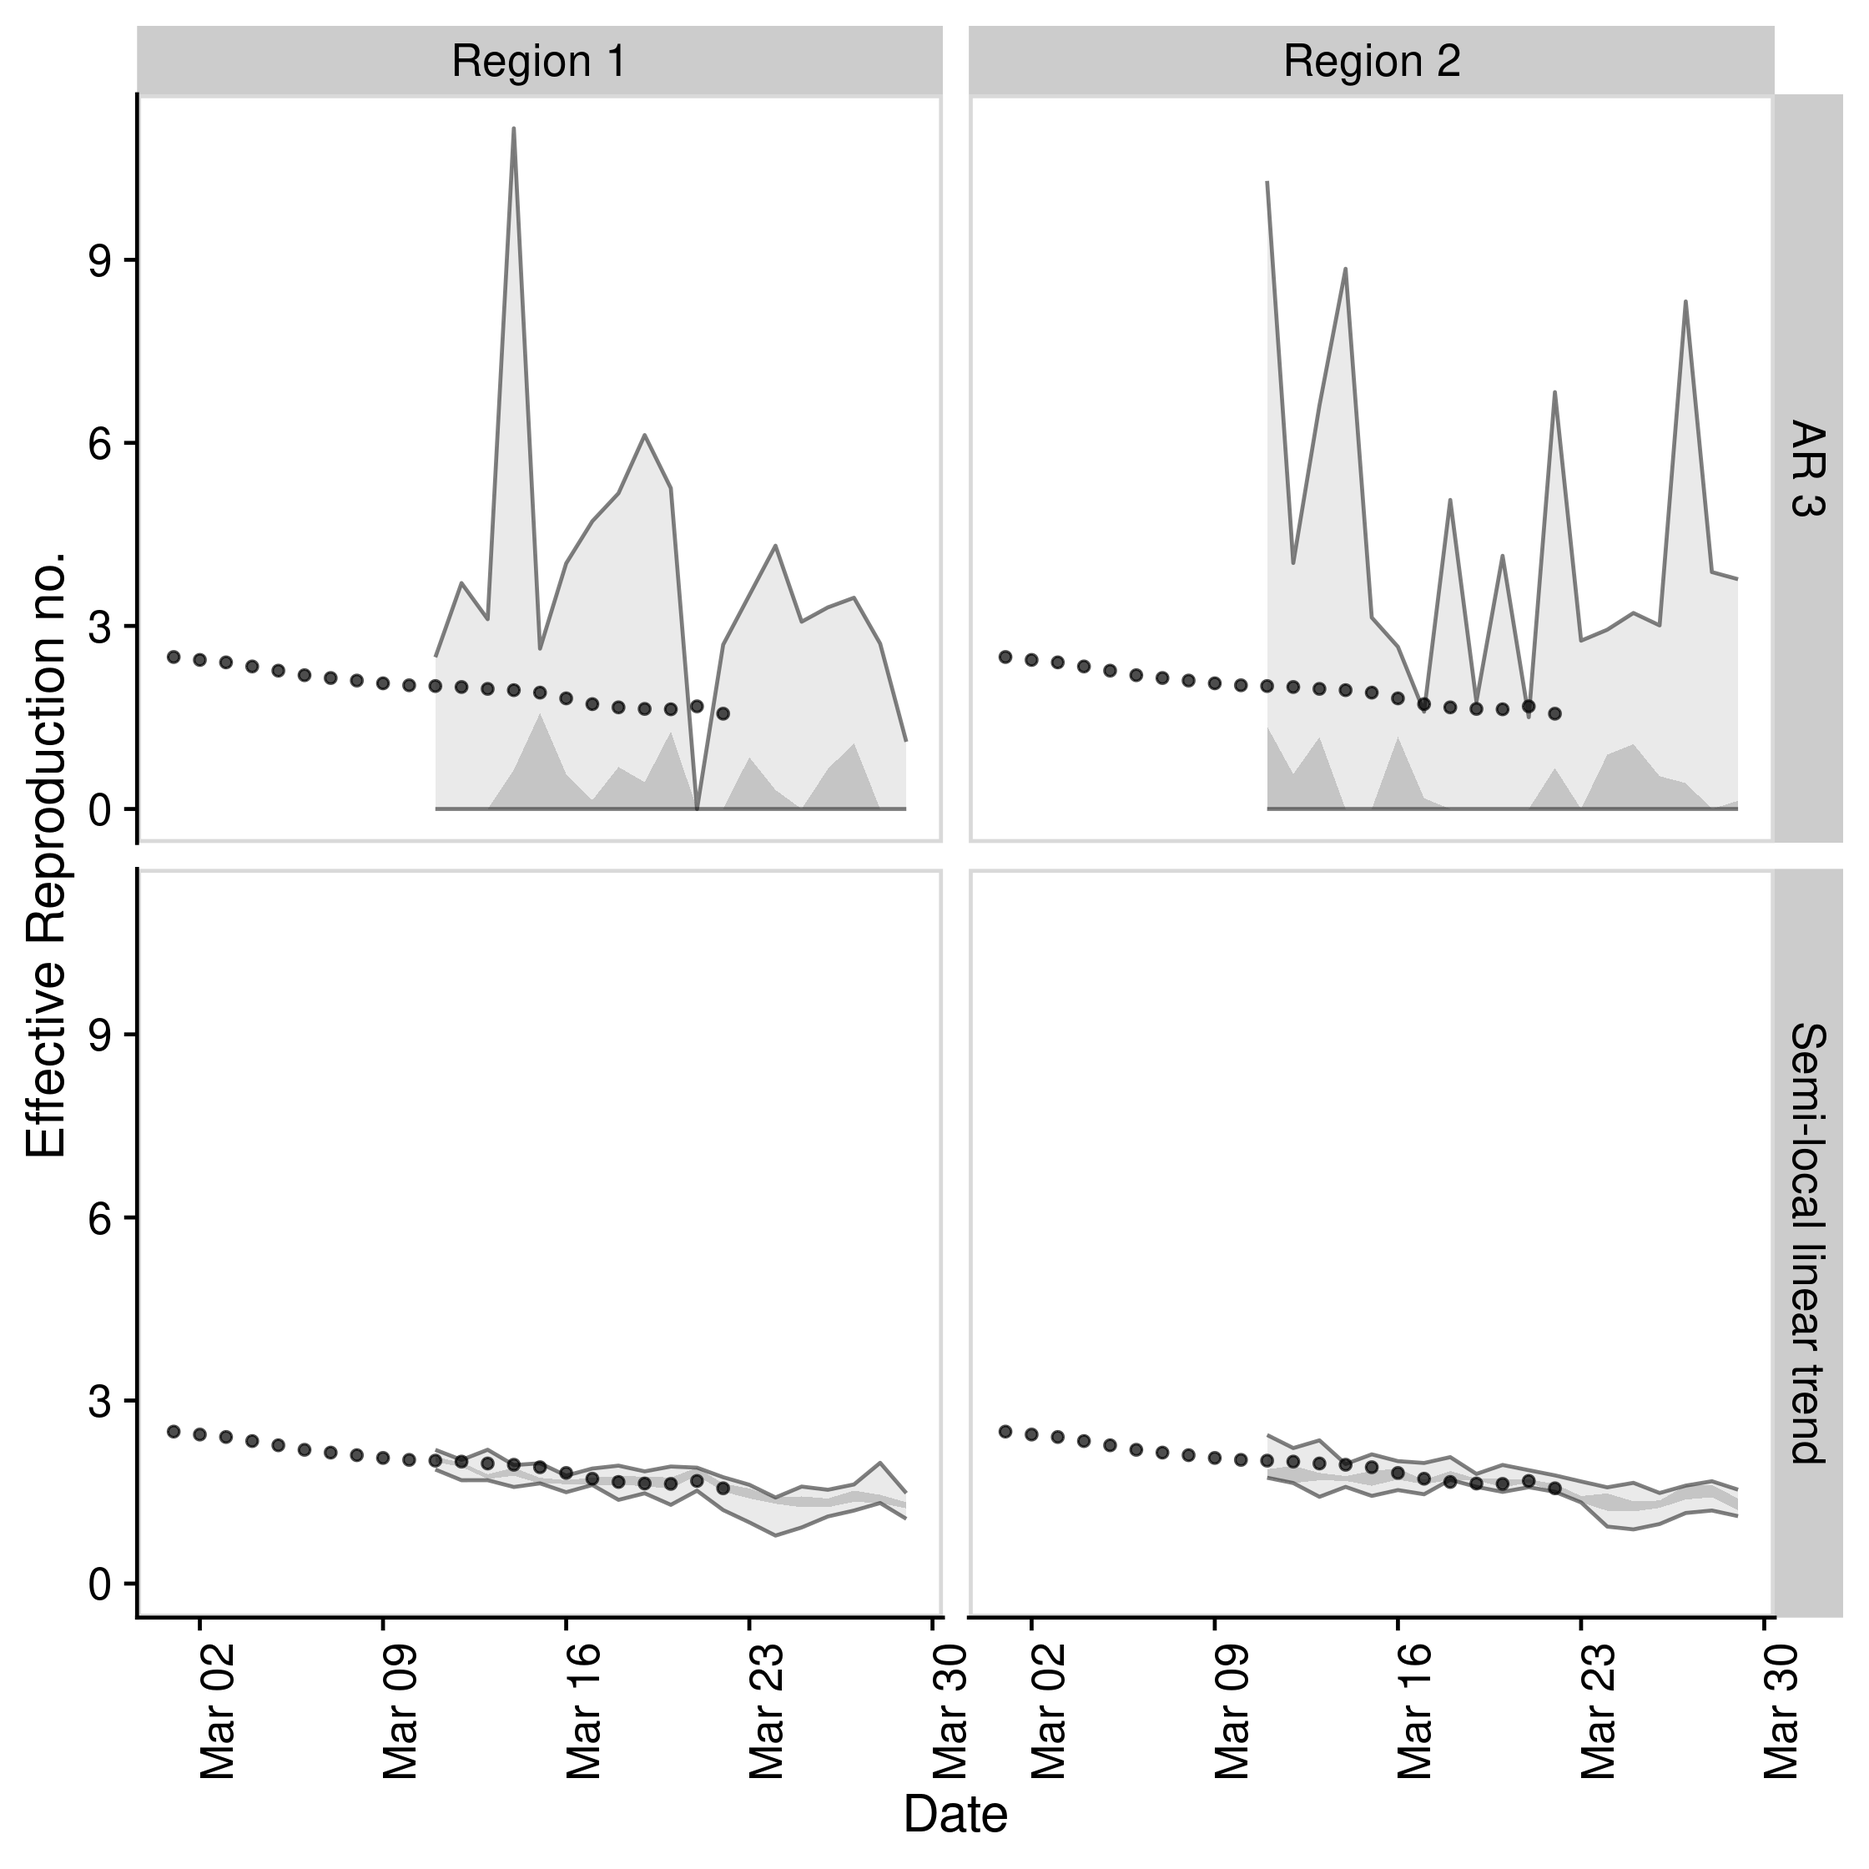
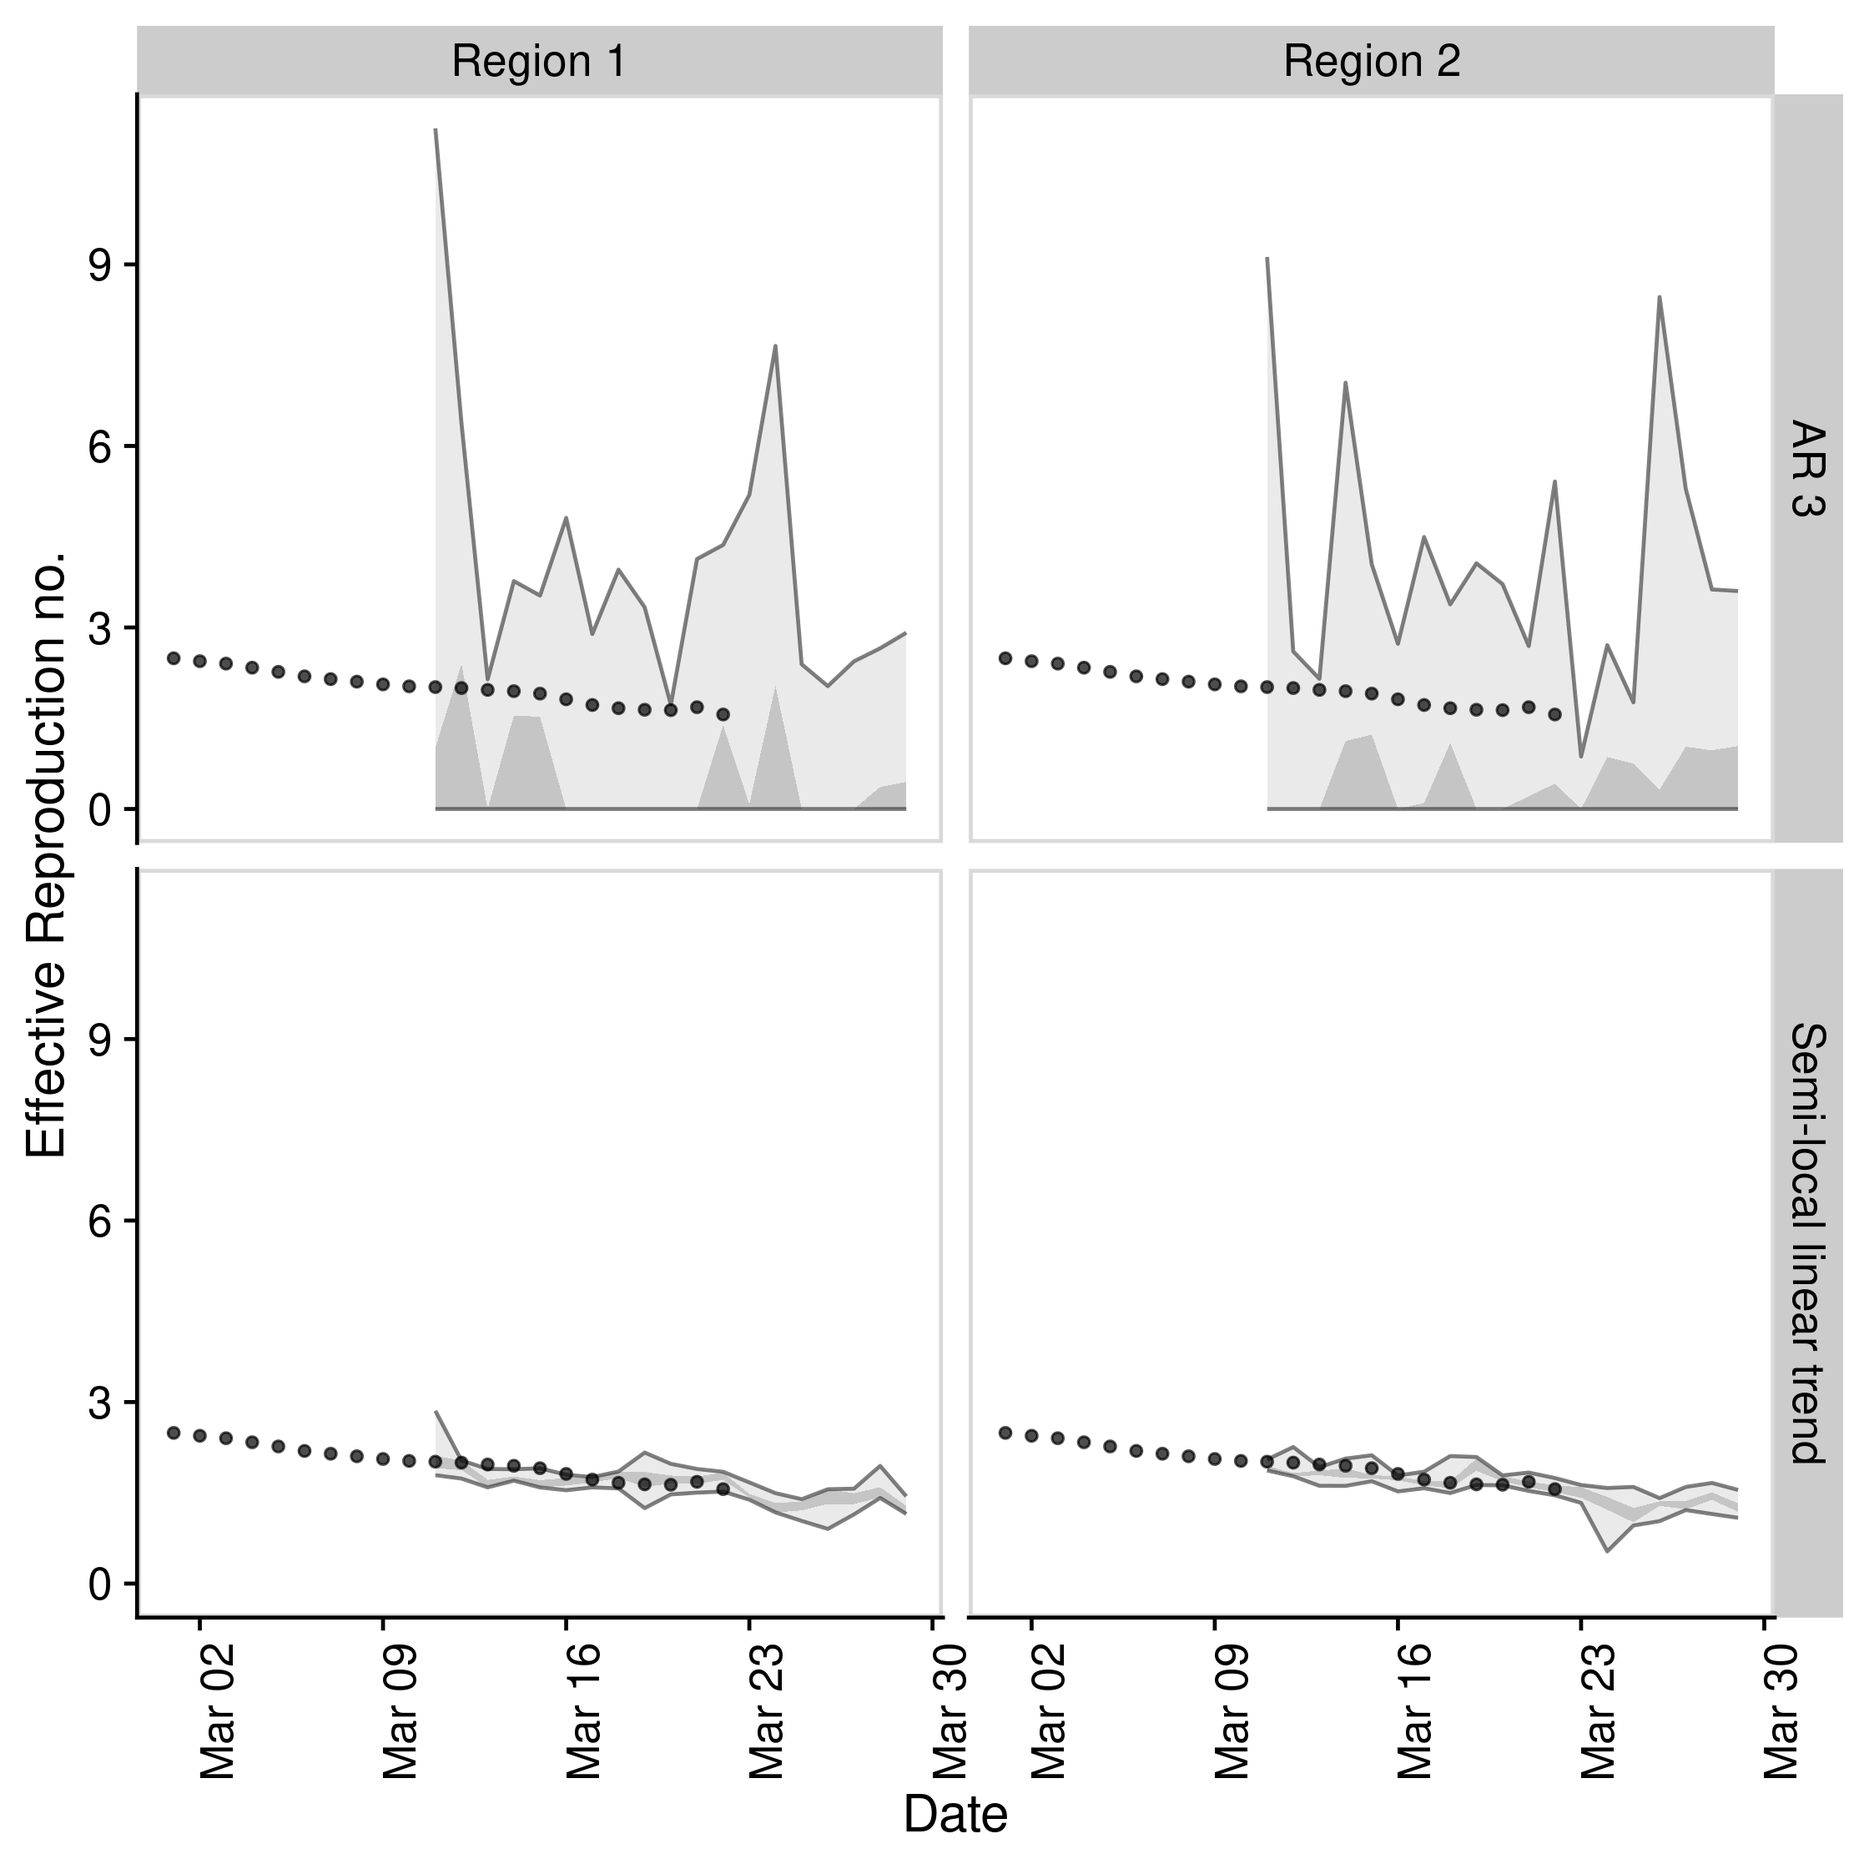
update readme

diff --git a/README.md b/README.md
@@ -3,11 +3,19 @@
 
 [![R build
 status](https://github.com/epiforecasts/EpiSoon/workflows/R-CMD-check/badge.svg)](https://github.com/epiforecasts/EpiSoon)
-![Docker Pulls](https://img.shields.io/docker/pulls/seabbs/episoon)
+[![Docker
+Pulls](https://img.shields.io/docker/pulls/seabbs/episoon)](https://hub.docker.com/repository/docker/seabbs/episoon)
 [![DOI](https://zenodo.org/badge/248311916.svg)](https://zenodo.org/badge/latestdoi/248311916)
 
-**Aim:** To forecast the time-varying reproduction number and use this
-to forecast reported case counts.
+This package provides tooling to forecast the time-varying reproduction
+number and use this to forecast reported case counts via a branching
+process. It supports a range of time series modelling packages including
+`bsts`, `forecast`, and `fable`. It also supports ensembles via `stackr`
+and `forecastHyrbid`. Forecasts can be assessed by iteractively fitting
+and then using proper scoring rules (via `scoringutils` and
+`scoringRules`) to compare to both observed case counts and estimated
+reproduction numbers. Whilst `EpiSoon` is primarily developed to be used
+in tandem with `EpiNow` it can also be used as a standalone package.
 
 ## Installation
 
@@ -99,16 +107,16 @@ forecasts
 #> # A tibble: 532 x 12
 #>    timeseries model forecast_date date       horizon median  mean    sd bottom
 #>    <chr>      <chr> <chr>         <date>       <int>  <dbl> <dbl> <dbl>  <dbl>
-#>  1 Region 1   AR 3  2020-03-04    2020-03-05       1  0.186 0.467 0.595      0
-#>  2 Region 1   AR 3  2020-03-04    2020-03-06       2  0     1.76  2.35       0
-#>  3 Region 1   AR 3  2020-03-04    2020-03-07       3  0.403 3.38  8.90       0
-#>  4 Region 1   AR 3  2020-03-04    2020-03-08       4  0.731 1.20  1.48       0
-#>  5 Region 1   AR 3  2020-03-04    2020-03-09       5  0     1.18  1.88       0
-#>  6 Region 1   AR 3  2020-03-04    2020-03-10       6  1.43  2.86  5.20       0
-#>  7 Region 1   AR 3  2020-03-04    2020-03-11       7  0     0.415 0.810      0
-#>  8 Region 1   AR 3  2020-03-05    2020-03-06       1  0     0.596 0.972      0
-#>  9 Region 1   AR 3  2020-03-05    2020-03-07       2  0     0.861 1.68       0
-#> 10 Region 1   AR 3  2020-03-05    2020-03-08       3  0.923 2.22  2.75       0
+#>  1 Region 1   AR 3  2020-03-04    2020-03-05       1 0      0.548 0.966      0
+#>  2 Region 1   AR 3  2020-03-04    2020-03-06       2 0.0701 1.53  2.10       0
+#>  3 Region 1   AR 3  2020-03-04    2020-03-07       3 0      0.830 1.54       0
+#>  4 Region 1   AR 3  2020-03-04    2020-03-08       4 0.283  1.23  1.73       0
+#>  5 Region 1   AR 3  2020-03-04    2020-03-09       5 0      0.874 1.58       0
+#>  6 Region 1   AR 3  2020-03-04    2020-03-10       6 0      0.492 0.913      0
+#>  7 Region 1   AR 3  2020-03-04    2020-03-11       7 0.822  2.39  3.51       0
+#>  8 Region 1   AR 3  2020-03-05    2020-03-06       1 0.149  0.547 0.956      0
+#>  9 Region 1   AR 3  2020-03-05    2020-03-07       2 0.835  2.22  3.45       0
+#> 10 Region 1   AR 3  2020-03-05    2020-03-08       3 0      0.475 0.788      0
 #> # … with 522 more rows, and 3 more variables: lower <dbl>, upper <dbl>,
 #> #   top <dbl>
 #> 
@@ -116,50 +124,50 @@ forecasts
 #> # A tibble: 420 x 14
 #>    timeseries model forecast_date date       horizon   dss  crps  logs   bias
 #>    <chr>      <chr> <chr>         <date>       <int> <dbl> <dbl> <dbl>  <dbl>
-#>  1 Region 1   AR 3  2020-03-04    2020-03-05       1  9.03 1.50   3.35 -1    
-#>  2 Region 1   AR 3  2020-03-04    2020-03-06       2  1.64 1.06   2.31 -0.200
-#>  3 Region 1   AR 3  2020-03-04    2020-03-07       3  4.29 1.25   2.22 -0.8  
-#>  4 Region 1   AR 3  2020-03-04    2020-03-08       4  1.09 0.835  2.17 -0.6  
-#>  5 Region 1   AR 3  2020-03-04    2020-03-09       5  1.40 0.932  2.13 -0.6  
-#>  6 Region 1   AR 3  2020-03-04    2020-03-10       6  3.22 0.767  1.85  0    
-#>  7 Region 1   AR 3  2020-03-04    2020-03-11       7  3.81 1.37   3.71 -0.8  
-#>  8 Region 1   AR 3  2020-03-05    2020-03-06       1  2.84 1.20   1.81 -0.8  
-#>  9 Region 1   AR 3  2020-03-05    2020-03-07       2  1.58 1.28   3.54 -0.8  
-#> 10 Region 1   AR 3  2020-03-05    2020-03-08       3  1.92 0.891  2.17 -0.200
+#>  1 Region 1   AR 3  2020-03-04    2020-03-05       1  3.34 1.41   2.62 -0.8  
+#>  2 Region 1   AR 3  2020-03-04    2020-03-06       2  1.49 0.943  2.20 -0.400
+#>  3 Region 1   AR 3  2020-03-04    2020-03-07       3  1.57 1.17   2.23 -0.6  
+#>  4 Region 1   AR 3  2020-03-04    2020-03-08       4  1.28 0.906  2.26 -0.6  
+#>  5 Region 1   AR 3  2020-03-04    2020-03-09       5  1.43 1.17   3.92 -0.6  
+#>  6 Region 1   AR 3  2020-03-04    2020-03-10       6  2.86 1.31   3.80 -0.8  
+#>  7 Region 1   AR 3  2020-03-04    2020-03-11       7  2.42 0.779  1.97 -0.200
+#>  8 Region 1   AR 3  2020-03-05    2020-03-06       1  3.10 1.43   6.29 -0.8  
+#>  9 Region 1   AR 3  2020-03-05    2020-03-07       2  2.37 0.804  2.00 -0.200
+#> 10 Region 1   AR 3  2020-03-05    2020-03-08       3  4.17 1.28   1.46 -1    
 #> # … with 410 more rows, and 5 more variables: sharpness <dbl>,
 #> #   calibration <dbl>, median <dbl>, iqr <dbl>, ci <dbl>
 #> 
 #> $forecast_cases
 #> # A tibble: 420 x 12
-#>    timeseries model forecast_date date       horizon median  mean     sd bottom
-#>    <chr>      <chr> <chr>         <date>       <int>  <dbl> <dbl>  <dbl>  <dbl>
-#>  1 Region 1   AR 3  2020-03-04    2020-03-05       1    5.5  15.7   20.6      0
-#>  2 Region 1   AR 3  2020-03-04    2020-03-06       2    0    63.1   84.3      0
-#>  3 Region 1   AR 3  2020-03-04    2020-03-07       3   16   114.   301.       0
-#>  4 Region 1   AR 3  2020-03-04    2020-03-08       4   15    47.5   82.4      0
-#>  5 Region 1   AR 3  2020-03-04    2020-03-09       5    0    43.2   94.1      0
-#>  6 Region 1   AR 3  2020-03-04    2020-03-10       6   27   356.  1043.       0
-#>  7 Region 1   AR 3  2020-03-04    2020-03-11       7    0    40.9  115.       0
-#>  8 Region 1   AR 3  2020-03-05    2020-03-06       1    0    23.1   38.3      0
-#>  9 Region 1   AR 3  2020-03-05    2020-03-07       2    0    34.2   68.7      0
-#> 10 Region 1   AR 3  2020-03-05    2020-03-08       3   44    76     88.9      0
+#>    timeseries model forecast_date date       horizon median  mean    sd bottom
+#>    <chr>      <chr> <chr>         <date>       <int>  <dbl> <dbl> <dbl>  <dbl>
+#>  1 Region 1   AR 3  2020-03-04    2020-03-05       1    0    17.3  32.0      0
+#>  2 Region 1   AR 3  2020-03-04    2020-03-06       2    1.5  55.6  77.4      0
+#>  3 Region 1   AR 3  2020-03-04    2020-03-07       3    0    33.4  62.4      0
+#>  4 Region 1   AR 3  2020-03-04    2020-03-08       4    7    61.6  93.4      0
+#>  5 Region 1   AR 3  2020-03-04    2020-03-09       5    0    26.9  49.5      0
+#>  6 Region 1   AR 3  2020-03-04    2020-03-10       6    0    25.4  48.6      0
+#>  7 Region 1   AR 3  2020-03-04    2020-03-11       7   12.5  86.9 150.       0
+#>  8 Region 1   AR 3  2020-03-05    2020-03-06       1    3.5  17.7  32.3      0
+#>  9 Region 1   AR 3  2020-03-05    2020-03-07       2   43    93.7 142.       0
+#> 10 Region 1   AR 3  2020-03-05    2020-03-08       3    0    16    27.1      0
 #> # … with 410 more rows, and 3 more variables: lower <dbl>, upper <dbl>,
 #> #   top <dbl>
 #> 
 #> $case_scores
 #> # A tibble: 420 x 15
-#>    timeseries model sample forecast_date date       horizon   dss  crps   logs
-#>    <chr>      <chr> <chr>  <chr>         <date>       <int> <dbl> <dbl>  <dbl>
-#>  1 Region 1   AR 3  1      2020-03-04    2020-03-05       1 11.8   37.2   5.62
-#>  2 Region 1   AR 3  1      2020-03-04    2020-03-06       2  8.78  37.1   5.85
-#>  3 Region 1   AR 3  1      2020-03-04    2020-03-07       3 11.3   55.6   6.52
-#>  4 Region 1   AR 3  1      2020-03-04    2020-03-08       4  9.20  55.7   7.09
-#>  5 Region 1   AR 3  1      2020-03-04    2020-03-09       5  9.65  76    10.7 
-#>  6 Region 1   AR 3  1      2020-03-04    2020-03-10       6 13.8  114.   10.2 
-#>  7 Region 1   AR 3  1      2020-03-04    2020-03-11       7 10.7  130.  190.  
-#>  8 Region 1   AR 3  1      2020-03-05    2020-03-06       1  9.07  38.2   5.46
-#>  9 Region 1   AR 3  1      2020-03-05    2020-03-07       2  9.04  53.9   7.69
-#> 10 Region 1   AR 3  1      2020-03-05    2020-03-08       3  8.96  33.6   5.80
+#>    timeseries model sample forecast_date date       horizon   dss  crps  logs
+#>    <chr>      <chr> <chr>  <chr>         <date>       <int> <dbl> <dbl> <dbl>
+#>  1 Region 1   AR 3  1      2020-03-04    2020-03-05       1  9.09  39.0  6.68
+#>  2 Region 1   AR 3  1      2020-03-04    2020-03-06       2  8.65  32.3  5.74
+#>  3 Region 1   AR 3  1      2020-03-04    2020-03-07       3  9.01  48.7  5.94
+#>  4 Region 1   AR 3  1      2020-03-04    2020-03-08       4  9.18  48.8  6.29
+#>  5 Region 1   AR 3  1      2020-03-04    2020-03-09       5 11.3   72.1  6.18
+#>  6 Region 1   AR 3  1      2020-03-04    2020-03-10       6 14.0   98    6.13
+#>  7 Region 1   AR 3  1      2020-03-04    2020-03-11       7 10.2   93.1  8.60
+#>  8 Region 1   AR 3  1      2020-03-05    2020-03-06       1 10.1   48.4  9.74
+#>  9 Region 1   AR 3  1      2020-03-05    2020-03-07       2  9.80  32.1  5.68
+#> 10 Region 1   AR 3  1      2020-03-05    2020-03-08       3 17.7   74.1 11.6 
 #> # … with 410 more rows, and 6 more variables: bias <dbl>, sharpness <dbl>,
 #> #   calibration <dbl>, median <dbl>, iqr <dbl>, ci <dbl>
 ```
@@ -197,27 +205,36 @@ EpiSoon::plot_forecast_evaluation(forecasts$forecast_cases, obs_cases, c(7)) +
 ``` r
 EpiSoon::summarise_scores(forecasts$case_scores)
 #> # A tibble: 18 x 9
-#>    score model   bottom    lower   median      mean    upper       top        sd
-#>    <chr> <chr>    <dbl>    <dbl>    <dbl>     <dbl>    <dbl>     <dbl>     <dbl>
-#>  1 bias  AR 3  -1.00e+0 -8.00e-1 -8.00e-1   -0.666  -6.00e-1   -0.0450    0.254 
-#>  2 bias  Semi… -1.00e+0  2.00e-1  7.00e-1    0.507   1.00e+0    1         0.557 
-#>  3 cali… AR 3   8.57e-5  8.57e-5  8.57e-5    0.0168  3.68e-3    0.204     0.0602
-#>  4 cali… Semi…  8.57e-5  8.57e-5  8.57e-5    0.0295  2.00e-4    0.298     0.0772
-#>  5 ci    AR 3   1.41e+2  3.77e+2  6.20e+2 1504.      1.06e+3 9395.     2998.    
-#>  6 ci    Semi…  2.82e+1  5.27e+1  1.19e+2  918.      1.28e+3 5204.     1557.    
-#>  7 crps  AR 3   3.65e+1  8.41e+1  1.35e+2  157.      1.96e+2  421.      103.    
-#>  8 crps  Semi…  3.01e+0  7.75e+0  1.69e+1   41.4     6.77e+1  166.       48.5   
-#>  9 dss   AR 3   9.04e+0  1.07e+1  1.18e+1   15.3     1.32e+1   38.9      17.6   
-#> 10 dss   Semi…  4.64e+0  6.34e+0  7.96e+0   12.9     1.39e+1   44.9      13.9   
-#> 11 iqr   AR 3   1.44e+2  3.27e+2  5.53e+2  706.      8.78e+2 2024.      510.    
-#> 12 iqr   Semi…  1.21e+1  3.36e+1  7.54e+1  182.      3.15e+2  742.      209.    
-#> 13 logs  AR 3   5.77e+0  6.69e+0  7.25e+0  Inf       1.07e+1  Inf       Inf     
-#> 14 logs  Semi…  3.39e+0  4.19e+0  4.81e+0    9.53    7.41e+0   34.8      18.2   
-#> 15 medi… AR 3   5.64e+1  2.79e+2  4.18e+2  479.      6.56e+2 1211       280.    
-#> 16 medi… Semi…  3.00e+0  1.90e+1  4.90e+1  103.      1.75e+2  396.      114.    
-#> 17 shar… AR 3   0.       0.       1.37e+1   51.5     7.54e+1  247.       75.3   
-#> 18 shar… Semi…  6.67e+0  1.33e+1  2.22e+1   26.3     3.48e+1   67.5      17.2
+#>    score  model   bottom    lower   median      mean    upper      top        sd
+#>    <chr>  <chr>    <dbl>    <dbl>    <dbl>     <dbl>    <dbl>    <dbl>     <dbl>
+#>  1 bias   AR 3  -1.00e+0 -8.00e-1 -8.00e-1   -0.662  -6.00e-1    0        0.263 
+#>  2 bias   Semi… -1.00e+0  3.00e-1  8.00e-1    0.561   1.00e+0    1        0.548 
+#>  3 calib… AR 3   8.57e-5  8.57e-5  8.57e-5    0.0240  3.68e-3    0.222    0.0860
+#>  4 calib… Semi…  8.57e-5  8.57e-5  8.57e-5    0.0202  2.00e-4    0.340    0.0639
+#>  5 ci     AR 3   1.51e+2  3.35e+2  5.95e+2 1382.      1.12e+3 9342.    2232.    
+#>  6 ci     Semi…  2.59e+1  5.15e+1  1.41e+2 1162.      2.07e+3 5469.    1795.    
+#>  7 crps   AR 3   3.21e+1  8.91e+1  1.40e+2  152.      1.84e+2  416.      93.7   
+#>  8 crps   Semi…  2.79e+0  6.46e+0  1.67e+1   44.7     7.90e+1  177.      54.3   
+#>  9 dss    AR 3   9.01e+0  1.07e+1  1.18e+1   14.8     1.33e+1   53.4     11.2   
+#> 10 dss    Semi…  4.66e+0  6.03e+0  7.88e+0   14.8     1.57e+1   54.6     18.8   
+#> 11 iqr    AR 3   1.16e+2  3.54e+2  6.03e+2  681.      8.63e+2 1894.     467.    
+#> 12 iqr    Semi…  1.19e+1  2.81e+1  7.75e+1  191.      3.38e+2  716.     228.    
+#> 13 logs   AR 3   5.70e+0  6.60e+0  7.23e+0  Inf       9.86e+0  Inf      Inf     
+#> 14 logs   Semi…  3.27e+0  4.07e+0  4.82e+0   12.2     8.38e+0   71.4     30.2   
+#> 15 median AR 3   6.72e+1  2.60e+2  4.16e+2  463.      5.92e+2 1176.     272.    
+#> 16 median Semi…  2.00e+0  1.70e+1  5.00e+1  108.      1.86e+2  386.     124.    
+#> 17 sharp… AR 3   0.       0.       1.85e+1   64.6     8.52e+1  348.     108.    
+#> 18 sharp… Semi…  5.36e+0  1.26e+1  1.85e+1   24.5     3.02e+1   76.4     18.4
 ```
+
+## Contributing
+
+File an issue [here](https://github.com/epiforecasts/EpiSoon/issues) if
+you have identified an issue with the package. Please note that due to
+operational constraints priority will be given to users informing
+government policy or offering methodological insights. We welcome all
+contributions, in particular those that improve the approach or the
+robustness of the code base.
 
 ## Docker
 
